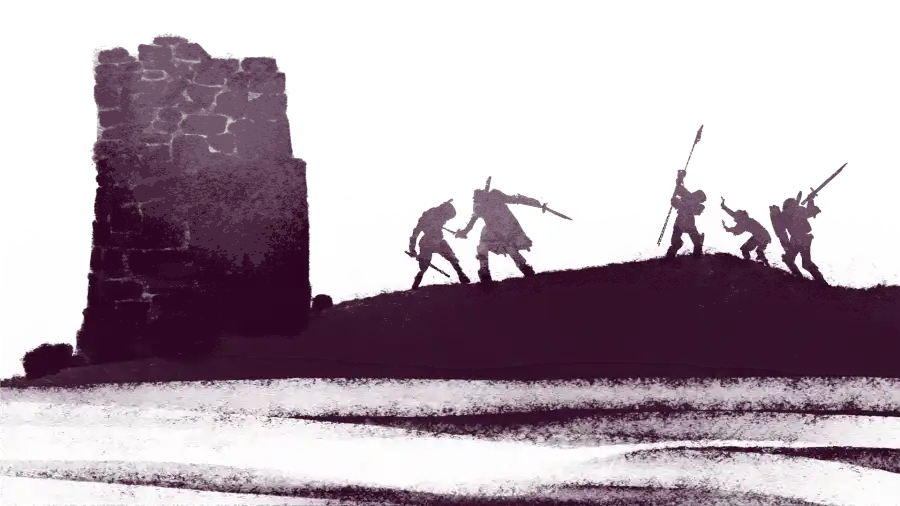
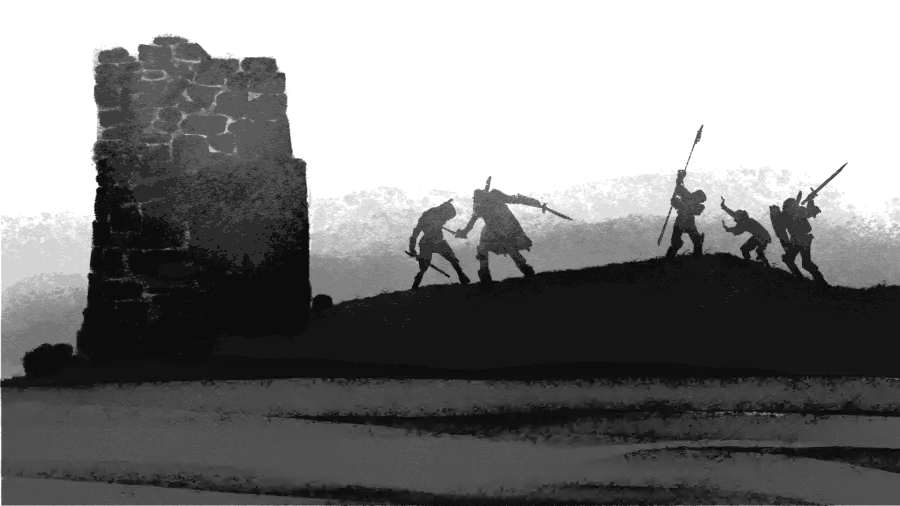
landing: charcoal tones for the header art (black silhouettes on a grey sky)

diff --git a/src/builder/styles/builder-ui.css b/src/builder/styles/builder-ui.css
@@ -4141,7 +4141,10 @@
 }
 .landing-world::before {
   z-index: -2;
-  background: url('/landing/battlefield.webp') center 42% / cover no-repeat; /* keeps the warriors on the ridge in frame */
+  /* charcoal sky behind near-black silhouettes; warriors on the ridge kept in frame */
+  background:
+    url('/landing/battlefield.webp') center 42% / cover no-repeat,
+    linear-gradient(180deg, #3a3a3a 0%, #2b2b2b 100%);
 }
 .landing-world::after {
   z-index: -1;
